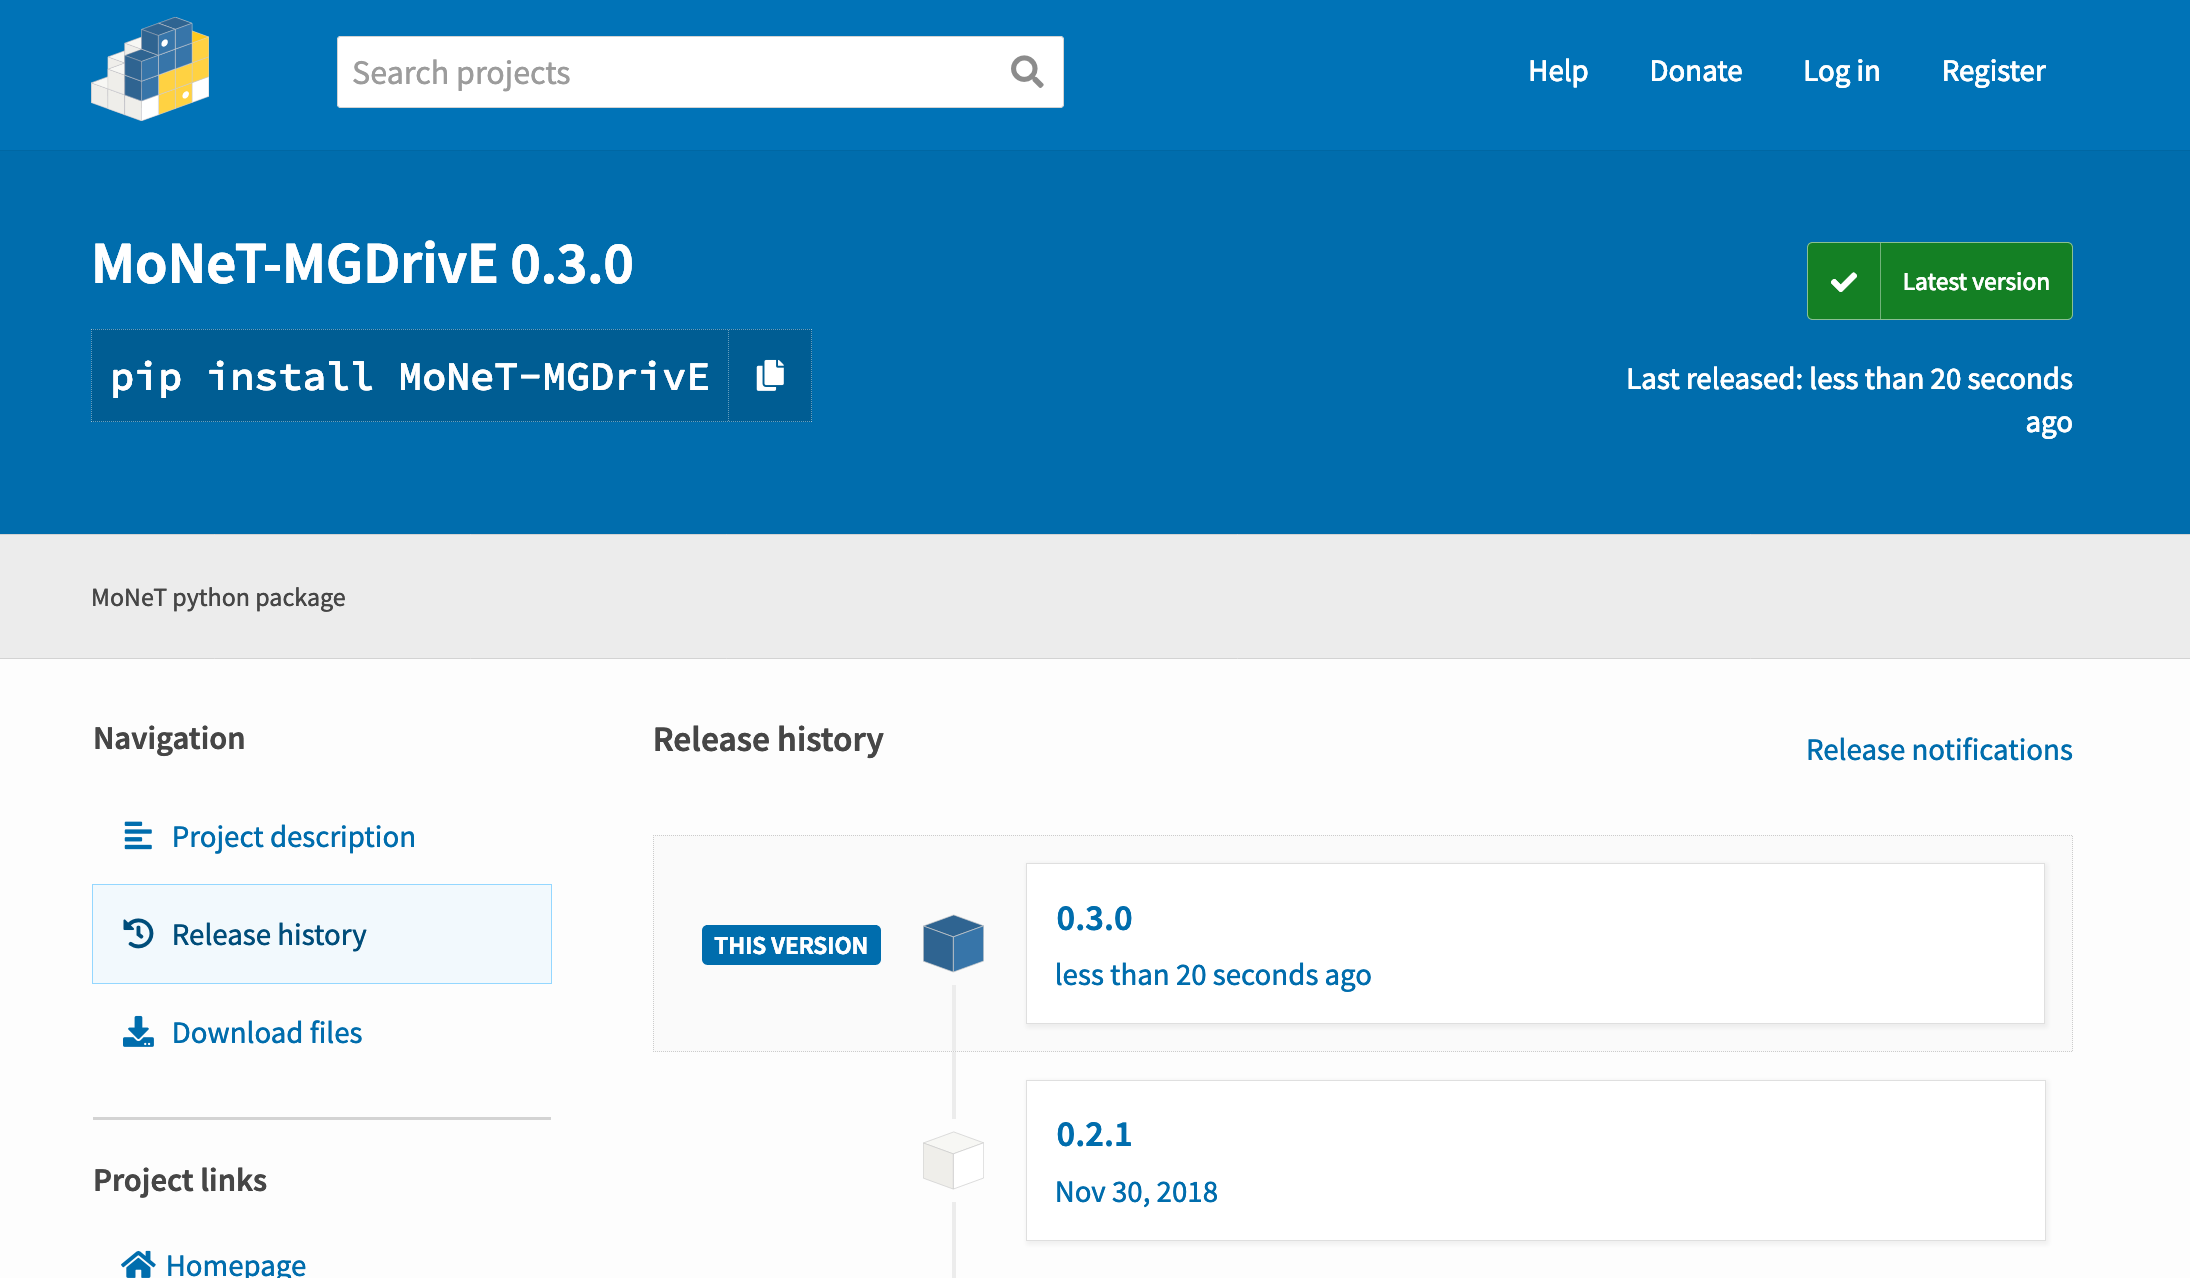
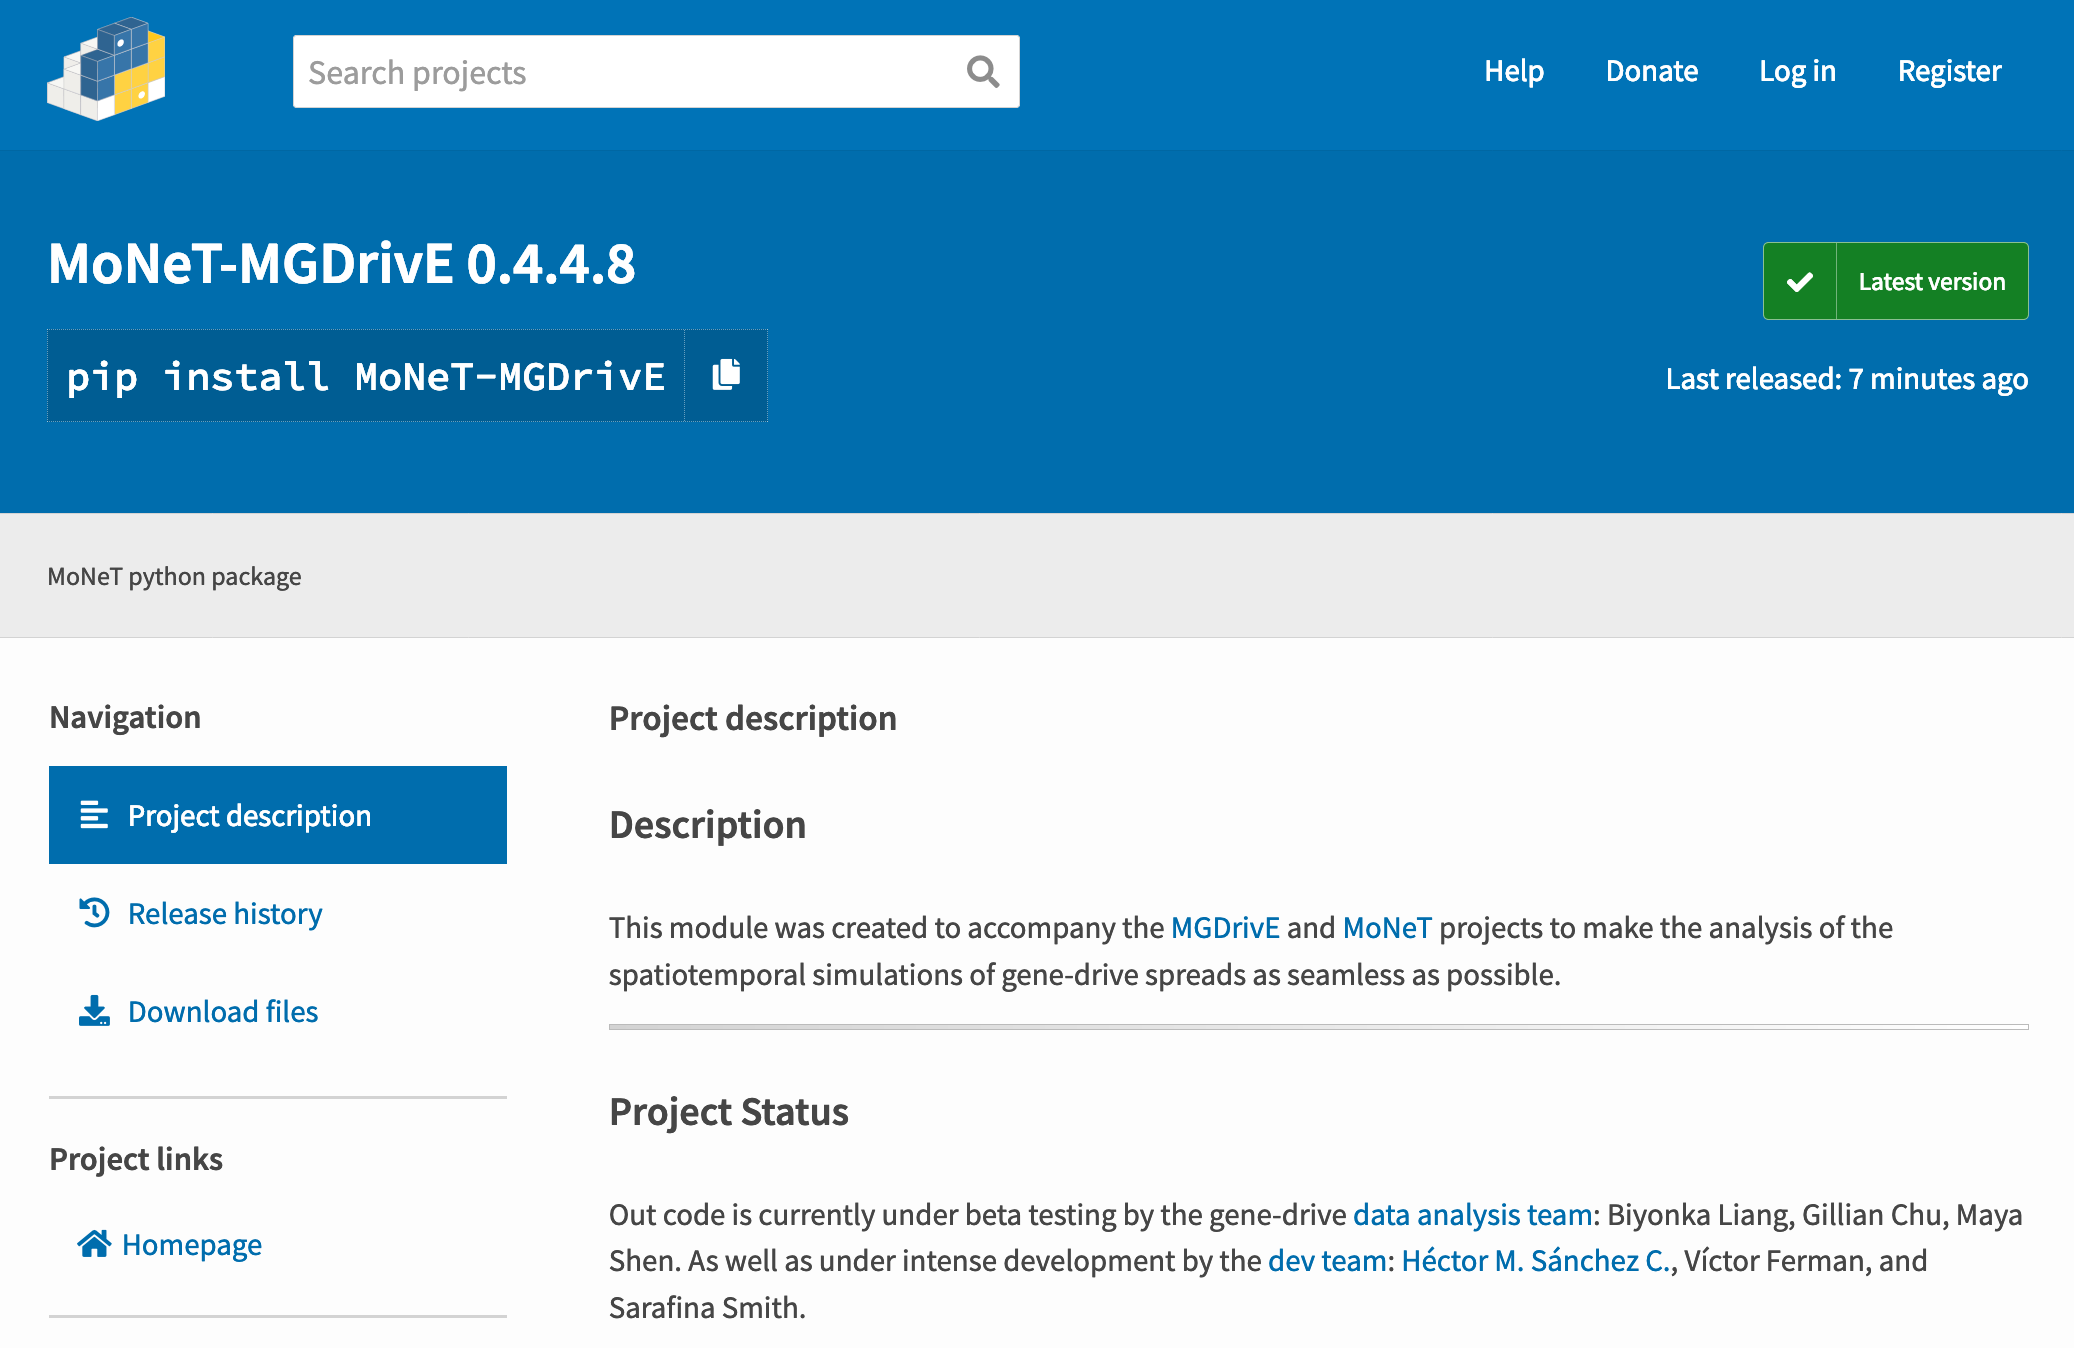
Minor updates to the package and to the website.

diff --git a/PythonPkg/setup.py b/PythonPkg/setup.py
@@ -5,7 +5,7 @@ with open("README.md", "r") as fh:
 
 setuptools.setup(
 	  name='MoNeT_MGDrivE',
-      version='0.4.4.7',
+      version='0.4.4.9',
       url='https://chipdelmal.github.io/MoNeT/',
       author='Hector M. Sanchez C.',
       author_email='sanchez.hmsc@berkeley.edu',

diff --git a/PythonPkg/MoNeT_MGDrivE/factorialExperimentsHandler.py b/PythonPkg/MoNeT_MGDrivE/factorialExperimentsHandler.py
@@ -1,7 +1,5 @@
-import os
 import csv
 import glob
-import fnmatch
 import numpy as np
 import MoNeT_MGDrivE.experimentsHandler as exPar
 import MoNeT_MGDrivE.auxiliaryFunctions as auxFun

diff --git a/PythonPkg/README.md b/PythonPkg/README.md
@@ -1,11 +1,16 @@
-##  Description
+#  Description
 
 This module was created to accompany the [MGDrivE](https://marshalllab.github.io/MGDrivE/) and [MoNeT](https://chipdelmal.github.io/MoNeT/) projects to make the analysis of the spatiotemporal simulations of gene-drive spreads as seamless as possible.
 
+<hr>
 
-PACKAGE DOCUMENTATION AND EXAMPLES UNDER DEVELOPMENT
+#  Project Status
 
-# Quick Operations
+Out code is currently under beta testing by the gene-drive [data analysis team](https://chipdelmal.github.io/MoNeT/Berkeley.html): Biyonka Liang, Gillian Chu, Maya Shen. As well as under intense development by the [dev team](https://chipdelmal.github.io/MoNeT/PythonModule.html): [Héctor M. Sánchez C.](https://chipdelmal.github.io/), Víctor Ferman, and Sarafina Smith.
+
+<hr>
+
+# Common Operations
 
 ##  Installation
 
@@ -21,9 +26,26 @@ Alternatively, the package can be downloaded, and installed with:
 pip install .
 ```
 
-##  Dependencies
+## Anaconda Environment
 
-##  Authors
+The anaconda environment containing all the packages necessary to run our analyses scripts is available in [our anaconda cloud website](https://anaconda.org/chipdelmal/monet).
+To install it, [download our YML file](https://anaconda.org/chipdelmal/MoNeT/files) and run:
 
-* Current: Sarafina Smith, Biyonka Liang, Víctor Ferman, Héctor Manuel Sánchez Castellanos
-* Former: Sabrina Wong
+```bash
+conda env create -f MoNeT.yml -n MoNeT
+```
+
+## Dependencies
+
+* [Numpy](http://www.numpy.org/)
+* [Matplotlib](https://matplotlib.org/)
+* [Pandas](https://pandas.pydata.org/)
+
+<hr>
+
+#  Authors
+
+* __Lead__: [Héctor M. Sánchez C](https://chipdelmal.github.io/).
+* __Dev__: Sarafina Smith, Víctor Ferman, Biyonka Liang
+* __Former Dev__: Sabrina Wong
+* __PI__: [John M. Marshall](https://www.marshalllab.com/)

diff --git a/docs/PythonModule.md b/docs/PythonModule.md
@@ -2,7 +2,7 @@
 
 This module was created to accompany the [*MGDrivE*](https://marshalllab.github.io/MGDrivE/) project, although its codebase is totally independent to allow as much modularity as possible. This is not only convenient in terms of the code, but it also provides a clear-cut separation between designing and running experiments, and analyzing the results.
 
-```Python
+```python
 import MoNeT_MGDrivE as monet
 # Define the experiment's path
 type = float
@@ -28,15 +28,19 @@ nodeData = monet.loadNodeData(
 )
 ```
 
-The creation of this package is ongoing, and is currently being thoroughly tested against previous scattered scripts developed in _Mathematica_. It can be installed through pip:
+The creation of this package is ongoing, and is currently being thoroughly tested against previous scattered scripts developed in _Mathematica_. It can be installed through pip with the following command:
+
+```bash
+pip install MoNeT_MGDrivE
+```
+
+For more information and releases please take a look at our [pypi website](https://pypi.org/project/MoNeT-MGDrivE/).
 
 <a href="https://pypi.org/project/MoNeT-MGDrivE/#description"><img src="./media/pip.png" width="100%" align="middle"></a>
-
-<br>
 
 <hr>
 
 
 ## Authors
 
-Sarafina Smith, Sabrina Wong, Víctor Ferman, Héctor M. Sánchez C.
+Sarafina Smith, Víctor Ferman, Sabrina Wong, Héctor M. Sánchez C.

diff --git a/PythonPkg/UPGRADING.md b/PythonPkg/UPGRADING.md
@@ -26,7 +26,7 @@ To upgrade the package, change the version number in setup.py and run the follow
 ```bash
 python3 setup.py sdist bdist_wheel
 twine check dist/*
-python -m twine upload dist/MoNeT_MGDrivE-0.4.4.7.tar.gz --skip-existing
+python -m twine upload dist/MoNeT_MGDrivE-0.4.4.8.tar.gz --skip-existing
 ```
 
 Updating the package in TestPypi
